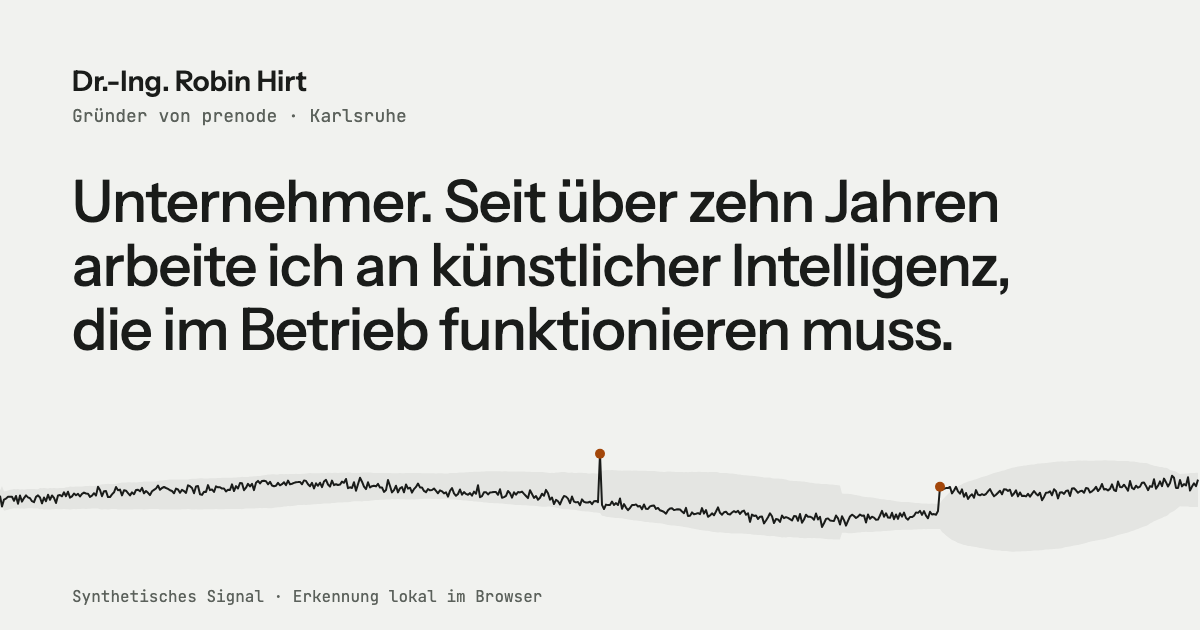
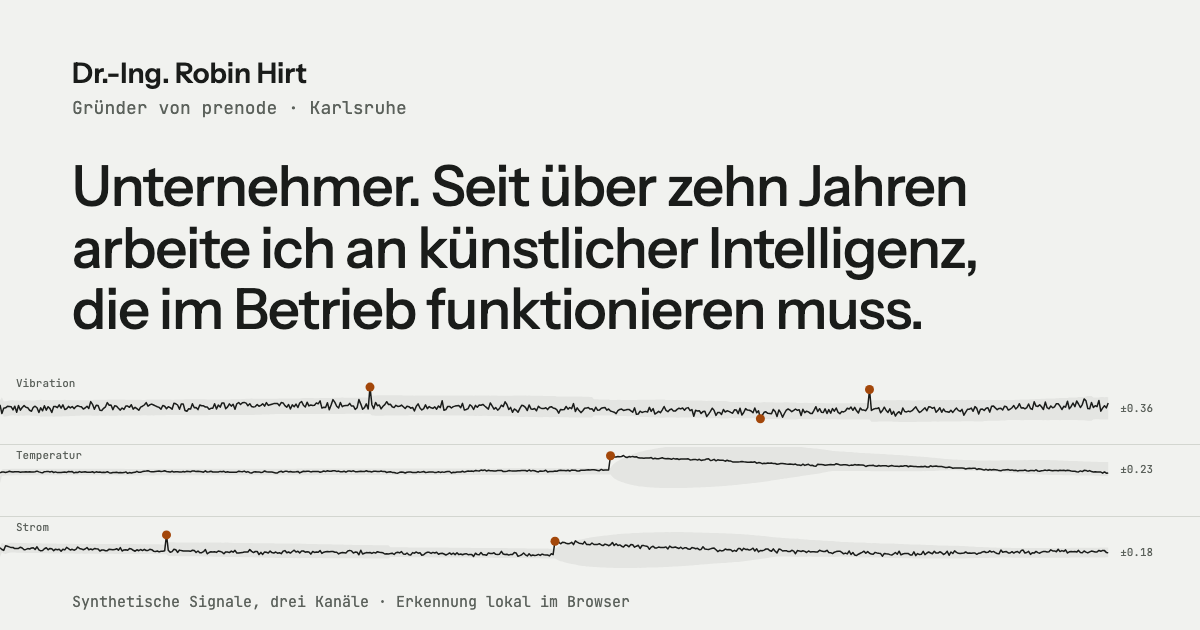
OG-Bild auf drei Kanäle umgestellt

diff --git a/tools/og.html b/tools/og.html
@@ -3,28 +3,42 @@
 @font-face{font-family:'Instrument Sans';font-weight:400 700;src:url('../public/fonts/instrument-sans-latin-wght-normal.woff2') format('woff2-variations')}
 @font-face{font-family:'JetBrains Mono';font-weight:100 800;src:url('../public/fonts/jetbrains-mono-latin-wght-normal.woff2') format('woff2-variations')}
 html,body{margin:0;width:1200px;height:630px;overflow:hidden;background:#f1f2ef;color:#1a1c1a;font-family:'Instrument Sans',sans-serif}
-.name{position:absolute;left:72px;top:64px;font-size:28px;font-weight:600}
-.rolle{position:absolute;left:72px;top:104px;font-family:'JetBrains Mono',monospace;font-size:18px;color:#5b615b}
-.satz{position:absolute;left:72px;top:170px;width:980px;font-size:58px;line-height:1.1;letter-spacing:-0.018em;font-weight:500}
-svg{position:absolute;left:0;top:420px}
-.fuss{position:absolute;left:72px;top:586px;font-family:'JetBrains Mono',monospace;font-size:16px;color:#5b615b}
+.name{position:absolute;left:72px;top:56px;font-size:28px;font-weight:600}
+.rolle{position:absolute;left:72px;top:96px;font-family:'JetBrains Mono',monospace;font-size:18px;color:#5b615b}
+.satz{position:absolute;left:72px;top:156px;width:980px;font-size:56px;line-height:1.1;letter-spacing:-0.018em;font-weight:500}
+svg{position:absolute;left:0;top:372px}
+.fuss{position:absolute;left:72px;top:592px;font-family:'JetBrains Mono',monospace;font-size:15px;color:#5b615b}
 </style></head><body>
 <div class="name">Dr.-Ing. Robin Hirt</div>
 <div class="rolle">Gründer von prenode · Karlsruhe</div>
 <div class="satz">Unternehmer. Seit über zehn Jahren arbeite ich an künstlicher Intelligenz, die im Betrieb funktionieren muss.</div>
-<svg width="1200" height="160" viewBox="0 0 1200 160"><path id="band" fill="rgba(26,28,26,0.06)"/><path id="trace" fill="none" stroke="#1a1c1a" stroke-width="2" stroke-linejoin="round"/><g id="marks"></g></svg>
-<div class="fuss">Synthetisches Signal · Erkennung lokal im Browser</div>
+<svg width="1200" height="216" viewBox="0 0 1200 216" id="svg"></svg>
+<div class="fuss">Synthetische Signale, drei Kanäle · Erkennung lokal im Browser</div>
 <script>
 let a=2018;const r=()=>{a=(a+0x6d2b79f5)>>>0;let t=a;t=Math.imul(t^(t>>>15),t|1);t^=t+Math.imul(t^(t>>>7),t|61);return((t^(t>>>14))>>>0)/4294967296};
 const g=()=>Math.sqrt(-2*Math.log(r()||1e-9))*Math.cos(2*Math.PI*r());
-const N=600,v=[],win=[],lo=[],hi=[],marks=[];let drift=0,step=0;
-for(let i=0;i<N;i++){drift=drift*0.99+g()*0.006;step*=0.99;let sp=0;if(i===300)sp=0.9;if(i===470)step+=0.45;
- const x=0.3*Math.sin(i/90)+drift+step+sp+g()*0.05;v.push(x);
- const n=win.length;let m=0,s=0.05;if(n>=20){m=win.reduce((p,c)=>p+c,0)/n;const q=win.reduce((p,c)=>p+c*c,0)/n-m*m;s=Math.max(Math.sqrt(Math.max(0,q)),0.05)}else if(n){m=win.reduce((p,c)=>p+c,0)/n}
- lo.push(m-3.5*s);hi.push(m+3.5*s);if(n>=20&&Math.abs(x-m)>3.5*s&&(!marks.length||i-marks[marks.length-1]>30))marks.push(i);
- win.push(x);if(win.length>120)win.shift();}
-const X=i=>i*2,Y=x=>80-x*55;
-document.getElementById('trace').setAttribute('d',v.map((x,i)=>(i?'L':'M')+X(i)+' '+Y(x).toFixed(1)).join(' '));
-document.getElementById('band').setAttribute('d',hi.map((x,i)=>(i?'L':'M')+X(i)+' '+Y(x).toFixed(1)).join(' ')+lo.map((x,i)=>'L'+X(N-1-i)+' '+Y(lo[N-1-i]).toFixed(1)).join(' ')+'Z');
-document.getElementById('marks').innerHTML=marks.map(i=>`<circle cx="${X(i)}" cy="${Y(v[i]).toFixed(1)}" r="5" fill="#a3470a"/>`).join('');
+const N=600,LANE=72,K=3.5;
+const specs=[
+ {name:'Vibration',noise:0.07,slow:0.1,per:90,spike:[200,470],step:[],min:0.07,range:0.9},
+ {name:'Temperatur',noise:0.012,slow:0.3,per:400,spike:[],step:[330],min:0.03,range:0.9},
+ {name:'Strom',noise:0.035,slow:0.15,per:150,spike:[90],step:[300],min:0.05,range:1.0},
+];
+let out='';
+specs.forEach((s,c)=>{
+ const v=[],win=[],lo=[],hi=[],marks=[];let step=0,drift=0;
+ for(let i=0;i<N;i++){drift=drift*0.99+g()*0.004;step*=0.992;let sp=0;if(s.spike.includes(i))sp=0.6;if(s.step.includes(i))step+=0.45;
+  const x=s.slow*Math.sin(i/s.per+c)+drift+step+sp+g()*s.noise;v.push(x);
+  const n=win.length;let m=0,sg=s.min;if(n>=20){m=win.reduce((p,q)=>p+q,0)/n;const q=win.reduce((p,q)=>p+q*q,0)/n-m*m;sg=Math.max(Math.sqrt(Math.max(0,q)),s.min)}else if(n){m=win.reduce((p,q)=>p+q,0)/n}
+  lo.push(m-K*sg);hi.push(m+K*sg);if(n>=20&&Math.abs(x-m)>K*sg&&(!marks.length||i-marks[marks.length-1]>30))marks.push(i);
+  win.push(x);if(win.length>120)win.shift();}
+ const y0=c*LANE,X=i=>i*1.85,Y=x=>Math.max(y0+3,Math.min(y0+LANE-3,y0+LANE/2-x/s.range*(LANE/2-8)));
+ const path=arr=>arr.map((x,i)=>(i?'L':'M')+X(i).toFixed(1)+' '+Y(x).toFixed(1)).join(' ');
+ if(c)out+=`<line x1="0" y1="${y0+0.5}" x2="1200" y2="${y0+0.5}" stroke="#d3d6d0"/>`;
+ out+=`<text x="16" y="${y0+15}" font-family="JetBrains Mono" font-size="11" fill="#5b615b">${s.name}</text>`;
+ out+=`<path d="${path(hi)} ${lo.map((x,i)=>'L'+X(N-1-i).toFixed(1)+' '+Y(lo[N-1-i]).toFixed(1)).join(' ')} Z" fill="rgba(26,28,26,0.06)"/>`;
+ out+=`<path d="${path(v)}" fill="none" stroke="#1a1c1a" stroke-width="1.5" stroke-linejoin="round"/>`;
+ out+=marks.map(i=>`<circle cx="${X(i).toFixed(1)}" cy="${Y(v[i]).toFixed(1)}" r="4.5" fill="#a3470a"/>`).join('');
+ out+=`<text x="${X(N-1)+12}" y="${(Y((hi[N-1]+lo[N-1])/2)+4).toFixed(1)}" font-family="JetBrains Mono" font-size="11" fill="#5b615b">±${((hi[N-1]-lo[N-1])/2).toFixed(2)}</text>`;
+});
+document.getElementById('svg').innerHTML=out;
 </script></body></html>

diff --git a/TODO.md b/TODO.md
@@ -40,8 +40,9 @@ Sichtbare Platzhalter auf der Seite sind in Bernstein gestrichelt markiert.
 - Schriften: Instrument Sans und JetBrains Mono (beide SIL OFL), nur die
   Latin-Teilmengen, gebündelt in `public/fonts/` samt Lizenzen.
 - Das OG-Bild (`public/og.png`) ist aus `tools/og.html` gerendert
-  (Chrome headless, 1200×630). Es zeigt noch die alte Einzelspur; bei Gelegenheit
-  auf drei Kanäle umstellen und neu rendern.
+  (Chrome headless, 1200×630) und zeigt die drei Kanäle. Bei Textänderung neu
+  erzeugen: `python3 -m http.server 4333` im Projektordner, dann Chrome headless
+  mit `--screenshot` auf `http://localhost:4333/tools/og.html`.
 - Die Fotos stammen aus dem prenode-Drive. Nutzungsrechte (Fotograf) vor
   Veröffentlichung prüfen.
 
